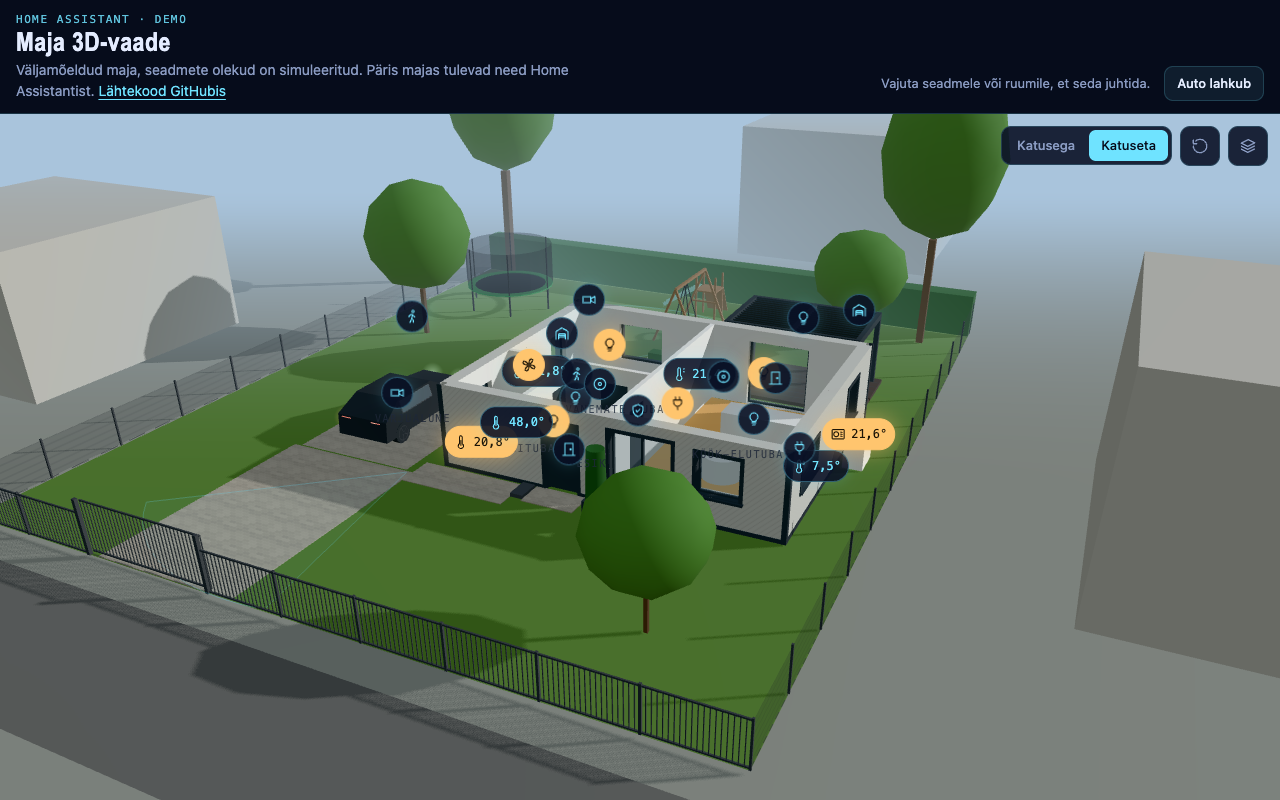
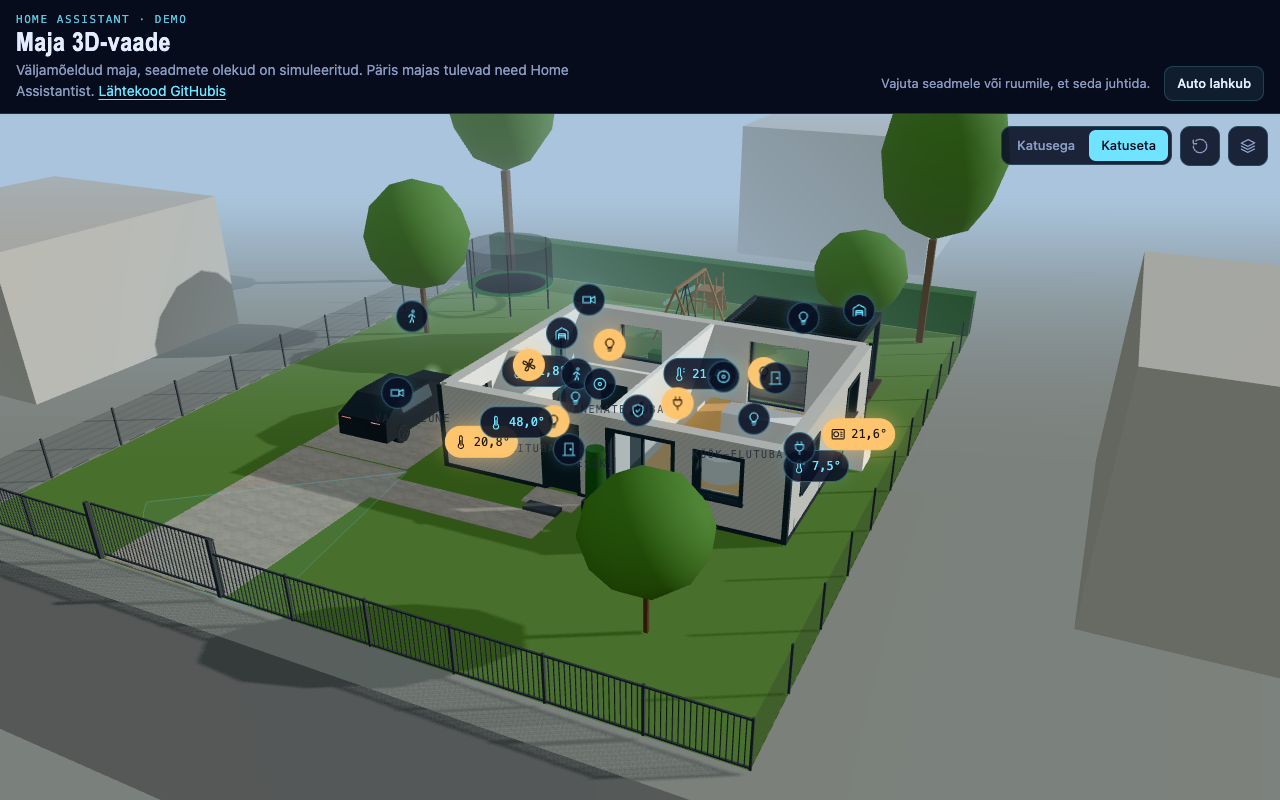
3D view: fog follows the camera out; a straight drive and path in the test house
The fog was fixed to the home view's distance, so zooming out sank the house
into it. The test house's drive now matches the carport's width with the gate
in its middle, and the path runs from the front steps to the drive.

diff --git a/house3d/house3d.js b/house3d/house3d.js
@@ -232,7 +232,7 @@ export function guardLayer(L, off) {
  *   bloom            default true; always off below 720 px width and in the real style
  *   mode             the starting mode, 'roof' (default) or 'open'
  *   style            'simple' (default) or 'real'; another style is another mount
- *   view             { position, target, fog? } as the view getter gives it: the first framing puts
+ *   view             { position, target } as the view getter gives it: the first framing puts
  *                    the camera there instead of the home view, so a remount keeps the user's orbit
  *   labels(roomId)   room label text; the room's own name when it returns nothing
  *   layers           { id: bool }: the starting state of the switchable layers, default on
@@ -255,7 +255,7 @@ export function guardLayer(L, off) {
  *   the L-EST97 grid azimuth of the model's +x axis (georef.x_axis_bearing_deg); null or any
  *   missing value gives a fixed afternoon sun. setTime(date | null): the sun's time, null for
  *   live (recomputed once a minute). time is the time in use. Both do nothing visible in the
- *   simple style. view is { position, target, fog: [near, far] } for options.view.
+ *   simple style. view is { position, target } for options.view; the fog follows the camera.
  * layers: [{ id, on }] for the switchable layers present and listed now; setLayer(id, on) switches
  *   one and ignores an unknown id. Switchable: 'markers' (the overlay; off hides every marker but
  *   an alert), 'fans' (listed while a marker has a look), 'trees', 'surroundings' and 'car' (off
@@ -608,7 +608,7 @@ export function mount(element, model, options = {}) {
   renderer.domElement.addEventListener('pointermove', onMove);
   renderer.domElement.addEventListener('pointerdown', onDown);
   renderer.domElement.addEventListener('pointerup', onUp);
-  controls.addEventListener('change', () => invalidate());
+  controls.addEventListener('change', () => { fitFog(); invalidate(); });
   controls.addEventListener('start', () => invalidate());
 
   /* ---------- framing and size ---------- */
@@ -617,26 +617,29 @@ export function mount(element, model, options = {}) {
     const a = camera.aspect;
     return (a >= 1 ? Math.max(46, 58 / a) : 42 / Math.pow(a, 1.05)) * E;
   }
+  // the fog starts just past the orbit target, never nearer than from the home view: fixed to the
+  // home distance, a zoom-out sank the house itself into it
+  function fitFog() {
+    const d = Math.max(homeDistance(), camera.position.distanceTo(controls.target));
+    scene.fog.near = d * 0.95;
+    scene.fog.far = d * 2.2;
+  }
   function reset() {
     controls.target.copy(HOME_TARGET);
-    scene.fog.near = homeDistance() * 0.95;
-    scene.fog.far = homeDistance() * 2.2;
     camera.position.copy(HOME_TARGET).addScaledVector(camera.aspect < 1 ? PORTRAIT_DIR : HOME_DIR, homeDistance());
     controls.update();
+    fitFog();
     invalidate();
   }
-  // a remount's first framing: the camera, and the fog when given, where the last mount left
-  // them (its fog was set for its own size, which may differ); otherwise the fog as reset() sets it
+  // a remount's first framing: the camera where the last mount left it
   const isVec = (p, n) => Array.isArray(p) && p.length === n && p.every(Number.isFinite);
   const startView = options.view && isVec(options.view.position, 3) && isVec(options.view.target, 3) ? options.view : null;
   function frameFirst() {
     if (!startView) return reset();
-    const fog = isVec(startView.fog, 2) ? startView.fog : [homeDistance() * 0.95, homeDistance() * 2.2];
-    scene.fog.near = fog[0];
-    scene.fog.far = fog[1];
     controls.target.fromArray(startView.target);
     camera.position.fromArray(startView.position);
     controls.update();
+    fitFog();
     invalidate();
   }
   function resize() {
@@ -656,7 +659,7 @@ export function mount(element, model, options = {}) {
       }
     }
     // frame once, at the first real size: a later hide and show keeps the user's orbit
-    if (!framed && w > 1 && h > 1) { framed = true; frameFirst(); }
+    if (!framed && w > 1 && h > 1) { framed = true; frameFirst(); } else fitFog();
     invalidate();
   }
   const ro = typeof ResizeObserver === 'function' ? new ResizeObserver(() => resize()) : null;
@@ -762,7 +765,7 @@ export function mount(element, model, options = {}) {
     setCar: s => { if (byId.car) byId.car.api.setCar(s); },
     get mode() { return mode; },
     get time() { return sunTime ? new Date(sunTime) : new Date(); },
-    get view() { return { position: camera.position.toArray(), target: controls.target.toArray(), fog: [scene.fog.near, scene.fog.far] }; },
+    get view() { return { position: camera.position.toArray(), target: controls.target.toArray() }; },
     get carState() { return byId.car ? byId.car.api.carState : 'away'; },
     get carScreen() { return byId.car ? byId.car.api.carScreen : null; },
     get layers() { return layers.filter(e => e.L.toggle && !e.failed && (!e.L.listed || e.L.listed())).map(e => ({ id: e.L.id, on: e.on })); }

diff --git a/house3d/house3d-card.js b/house3d/house3d-card.js
@@ -2,7 +2,7 @@
 // the card config, written by scripts/ha-dashboard.py; this file carries no house data.
 // Bump HOUSE3D_VERSION on every change to this file or the engine, and the same ?v= on the
 // Lovelace resource URL: HA's /local and the phone app cache aggressively.
-const HOUSE3D_VERSION = 17;
+const HOUSE3D_VERSION = 18;
 const engine = import(`./house3d.js?v=${HOUSE3D_VERSION}`);
 
 const nf1 = new Intl.NumberFormat('et-EE', { minimumFractionDigits: 1, maximumFractionDigits: 1 });

diff --git a/tests/house3d/fixture-model.md b/tests/house3d/fixture-model.md
@@ -73,12 +73,12 @@ model, never this file.
   "lot": [[0, -6], [22, -6], [22, 20], [0, 20]],
   "hedges": [[[0, 20], [22, 20]]],
   "fences": [[[22, -6], [22, 20]], [[0, -6], [0, 20]]],
-  "bar_fences": [[[0, -6], [13.5, -6]], [[17.5, -6], [22, -6]]],
+  "bar_fences": [[[0, -6], [13.1, -6]], [[17.1, -6], [22, -6]]],
   "gates": [
-   { "name": "drive", "a": [13.5, -6], "b": [17.5, -6], "kind": "sliding", "slide": "a", "height": 1.5 }
+   { "name": "drive", "a": [13.1, -6], "b": [17.1, -6], "kind": "sliding", "slide": "a", "height": 1.5 }
   ],
   "decks": [[[2, 10.3], [8, 10.3], [8, 13.5], [2, 13.5]]],
-  "paving": [[[12.8, -6], [17.2, -6], [17.2, 1], [12.8, 1], [12.8, 1.7], [9.5, 1.7], [9.5, 0.5], [12.8, 0.5]]],
+  "paving": [[[13, -6], [17, -6], [17, 1], [13, 1], [13, 0.5], [7.8, 0.5], [7.8, -0.7], [13, -0.7]]],
   "porch": [7.5, 0.9, 9.1, 1.8],
   "garage_roof": { "rects": [[12.8, 0.8, 17.2, 7.2], [12.8, 7.2, 17.2, 9.4]], "y": [2.6, 2.8] },
   "pergola": { "rect": [2.3, 10.3, 6.7, 13.3], "height": 2.6, "modules": 2 },
@@ -90,7 +90,7 @@ model, never this file.
    { "rect": [6.6, 0.9, 7.2, 1.5], "y": [0, 0.45], "plant": "thuja" },
    { "rect": [8.3, 10.6, 9.8, 11.2], "y": [0, 0.6], "plant": "low", "finish": "cladding" }
   ],
-  "steps": [{ "rect": [9.1, 1, 9.5, 1.7], "height": 0.115 }],
+  "steps": [{ "rect": [7.8, 0.5, 8.8, 0.9], "height": 0.115 }],
   "trees": [
    { "id": "t1", "kind": "apple", "pos": [3.5, -3], "height": 4, "crown": 3 },
    { "id": "t2", "kind": "birch", "pos": [20.5, 19], "height": 12, "crown": 5 },
